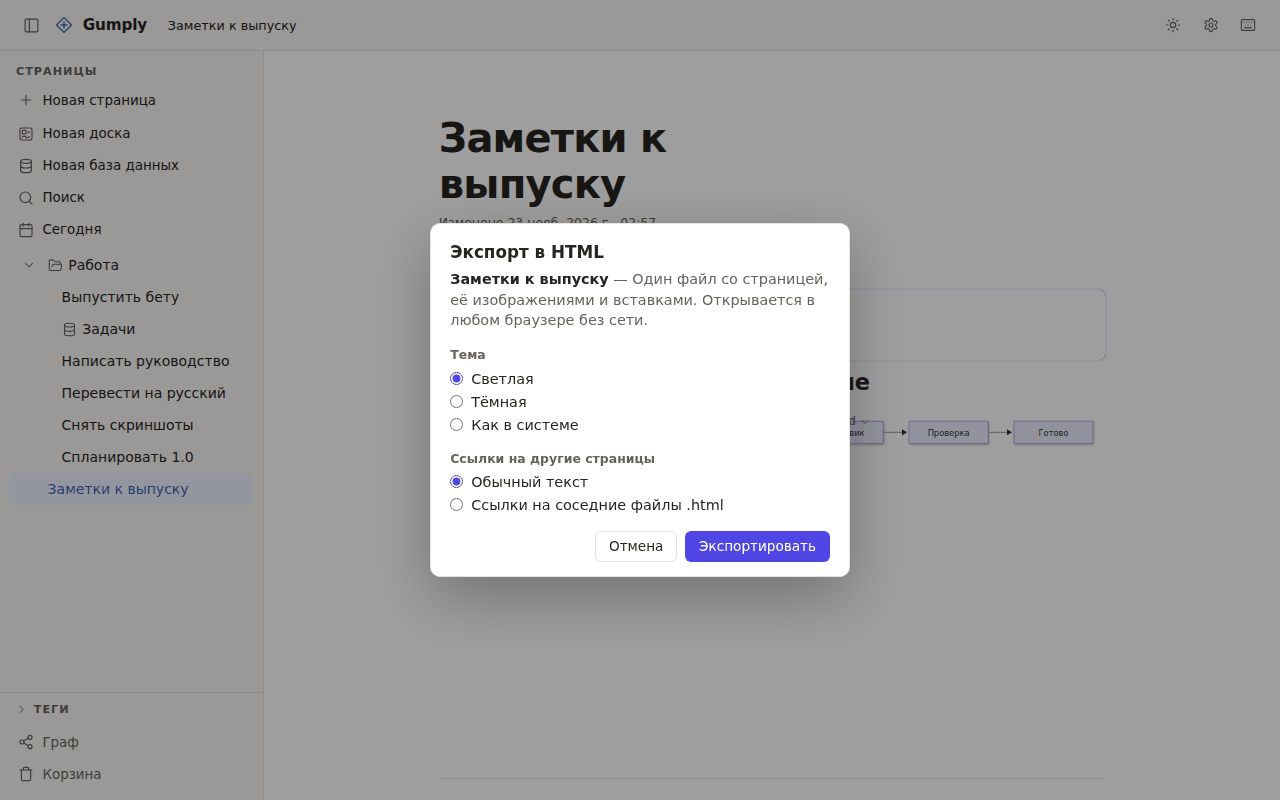
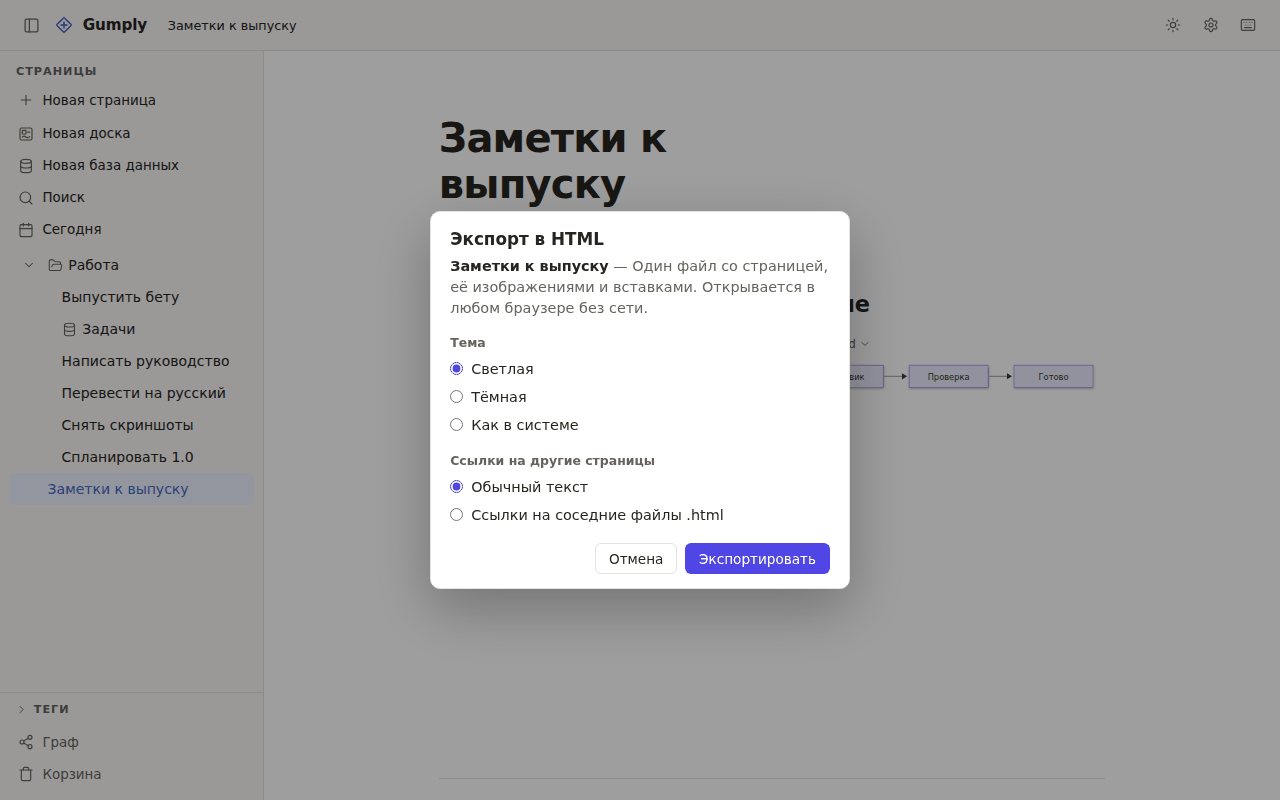
Guide for 0.9 (en + ru): big vaults, the > command list, retaken columns shots (#m3stfzsr)
- Links and the graph: "Big vaults": "Indexing links…" in the graph and
  Linked from while a big vault's links are read; above 5,000 notes the
  graph shows its start layout dimmed with "Arranging the graph… N%" and
  appears once settled. Troubleshooting points there.
- Getting started and the shortcuts table: type > in search for every
  command (this page, new, Insert / Turn into, board tools and zoom,
  appearance, help).
- Boards: a hidden TODO to mention smoother zoom once #zkknytrs is on main.
- Screenshots: every guide shot was retaken on main 1a84a01 and compared.
  columns-math, export and notion-import (en, ru) changed: display math now
  sits in its column and the Mermaid label clears the diagram (#8uqd657j).
  The others differ only in timestamps or state, so they're kept.

diff --git a/docs/guide/ru/links-and-graph.md b/docs/guide/ru/links-and-graph.md
@@ -45,6 +45,11 @@
 
 На любой странице кнопка **Локальный граф** в шапке показывает только эту страницу и её соседей на одну-две ссылки — в колонке рядом со страницей.
 
+### Большие хранилища
+
+- **Сразу после открытия** хранилища с тысячами заметок боковая панель и страницы доступны сразу, а Gumply ещё читает ссылки между ними. В это время граф и раздел **Ссылки сюда** показывают **Индексация ссылок…**, а потом заполняются. Когда они заполнились, ничего не пропущено.
+- **Граф больше чем из 5000 заметок** сначала показывает начальную раскладку приглушённой, с надписью **Граф раскладывается… 40%**, и появляется, когда раскладка устоится. На медленном компьютере это может занять время, но остальным приложением можно пользоваться.
+
 ## Структура
 
 **Структура** (`Ctrl/Cmd+Shift+O`) показывает заголовки страницы рядом с ней — или фреймы доски. Нажмите на пункт, чтобы перейти к нему. Структура делит боковую колонку с локальным графом.

diff --git a/docs/guide/ru/troubleshooting.md b/docs/guide/ru/troubleshooting.md
@@ -42,6 +42,10 @@
 
 Программа синхронизации сохранила обе стороны правки, сделанной на двух устройствах. См. [Синхронизация с другими программами](sync-with-other-apps.md).
 
+## Большое хранилище: «Индексация ссылок…» или «Граф раскладывается…»
+
+Это нормально для хранилища с тысячами заметок и проходит само. Страницы тем временем открываются. См. [Большие хранилища](links-and-graph.md#большие-хранилища).
+
 ## ИИ-приложение не подключается
 
 См. раздел о проблемах в [docs/mcp.md](../../mcp.md#troubleshooting) (на английском). Чтобы увидеть, что именно происходит, когда ИИ-приложение запускает Gumply, задайте в настройках этого приложения для Gumply переменную `GUMPLY_MCP_TRACE=/путь/к/trace.log` — в файл запишется каждый шаг.

diff --git a/docs/guide/en/links-and-graph.md b/docs/guide/en/links-and-graph.md
@@ -45,6 +45,11 @@ Choose **Graph** in the sidebar to see every page as a dot and every link as a l
 
 On any page, the **Local graph** button in the header shows just that page and its neighbours, one or two links away, in a column beside the page.
 
+### Big vaults
+
+- **Right after opening** a vault with thousands of notes, the sidebar and your pages are there at once, while Gumply still reads the links between them. For that moment the graph and **Linked from** say **Indexing links…**, then fill in. Nothing is missing once they do.
+- **A graph of more than 5,000 notes** first shows its starting layout dimmed, with **Arranging the graph… 40%** counting up, and appears once it has settled. That can take a while on a slow computer; the rest of the app stays usable meanwhile.
+
 ## The outline
 
 **Outline** (`Ctrl/Cmd+Shift+O`) lists the page's headings beside the page, or a board's frames. Click one to jump to it. It shares the side column with the local graph.

diff --git a/docs/guide/en/getting-started.md b/docs/guide/en/getting-started.md
@@ -69,7 +69,7 @@ Gumply keeps its own data (version history, conflict backups) in a `.gumply` fol
 ## Find your way around
 
 - **The sidebar** lists your pages and boards. Drag them to reorder or nest them. Hover a row for **+** (add a page inside) and **⋯** (more actions).
-- **Search** (`Ctrl+K`, or `Cmd+K` on a Mac) finds pages by title and text. It also runs commands: type "today", "template", "history" or "export".
+- **Search** (`Ctrl+K`, or `Cmd+K` on a Mac) finds pages by title and text, and runs commands such as "today", "template", "history" or "export". Type **>** first to list every command: for this page (rename, move, export, history…), new pages and boards, **Insert: …** and **Turn into: …** in the editor, board tools and zoom, theme, font and page width, and help.
 - **`?`** shows every keyboard shortcut.
 - **The gear** at the top right opens Settings: language, theme, AI apps, version history and updates.
 

diff --git a/docs/guide/en/troubleshooting.md b/docs/guide/en/troubleshooting.md
@@ -42,6 +42,10 @@ Look in **Trash** at the bottom of the sidebar. A page deleted in another app ma
 
 Your sync tool kept both sides of an edit made on two devices. See [Sync with other apps](sync-with-other-apps.md).
 
+## A big vault: "Indexing links…" or "Arranging the graph…"
+
+Both are normal in a vault with thousands of notes and go away by themselves. Your pages open meanwhile. See [Big vaults](links-and-graph.md#big-vaults).
+
 ## An AI app can't connect
 
 See the troubleshooting section of [docs/mcp.md](../../mcp.md#troubleshooting). To see exactly what happens when an AI app starts Gumply, set `GUMPLY_MCP_TRACE=/path/to/trace.log` in the AI app's settings for Gumply; the file records each step.

diff --git a/docs/guide/ru/boards.md b/docs/guide/ru/boards.md
@@ -38,6 +38,7 @@
 - **Дублировать** — `Ctrl/Cmd+D`, **копировать и вставить** — `Ctrl/Cmd+C` и `Ctrl/Cmd+V`.
 - **На передний / на задний план:** `]` и `[`.
 - **Масштаб:** `Ctrl/Cmd` + колесо или щипок. `Shift+1` показывает всю доску.
+<!-- TODO(#zkknytrs): once it is on main, say that zooming stays smooth on big boards (1,000+ objects). -->
 - **Удалить:** `Delete` или `Backspace`. `Ctrl/Cmd+Z` отменяет любое изменение, `Ctrl/Cmd+Shift+Z` повторяет его.
 
 ## Доска с клавиатуры

diff --git a/docs/guide/en/boards.md b/docs/guide/en/boards.md
@@ -38,6 +38,7 @@ Double-click anything to write in it. Text on stickies, shapes and cards is Mark
 - **Duplicate** with `Ctrl/Cmd+D`, **copy and paste** with `Ctrl/Cmd+C` and `Ctrl/Cmd+V`.
 - **Bring to front / send to back:** `]` and `[`.
 - **Zoom:** `Ctrl/Cmd` + scroll, or pinch. `Shift+1` fits the whole board.
+<!-- TODO(#zkknytrs): once it is on main, say that zooming stays smooth on big boards (1,000+ objects). -->
 - **Delete:** `Delete` or `Backspace`. `Ctrl/Cmd+Z` undoes any change; `Ctrl/Cmd+Shift+Z` redoes it.
 
 ## Use a board from the keyboard

diff --git a/docs/guide/ru/settings-and-shortcuts.md b/docs/guide/ru/settings-and-shortcuts.md
@@ -34,7 +34,7 @@
 
 | Клавиши | Что делают |
 |---|---|
-| `Ctrl+K` | Поиск по страницам и команды |
+| `Ctrl+K` | Поиск по страницам и команды (`>` — все команды) |
 | `Ctrl+\` | Показать или скрыть боковую панель |
 | `Ctrl+Shift+D` | Открыть заметку на сегодня |
 | `Ctrl+Shift+O` (или `Ctrl+Alt+O`) | Показать или скрыть структуру |

diff --git a/docs/guide/en/settings-and-shortcuts.md b/docs/guide/en/settings-and-shortcuts.md
@@ -34,7 +34,7 @@ Press `?` anywhere (outside a text field) to see them all. `Ctrl` is `Cmd` on a 
 
 | Keys | Does |
 |---|---|
-| `Ctrl+K` | Search pages and run commands |
+| `Ctrl+K` | Search pages and run commands (type `>` for all of them) |
 | `Ctrl+\` | Show or hide the sidebar |
 | `Ctrl+Shift+D` | Open today's note |
 | `Ctrl+Shift+O` (or `Ctrl+Alt+O`) | Show or hide the outline |
